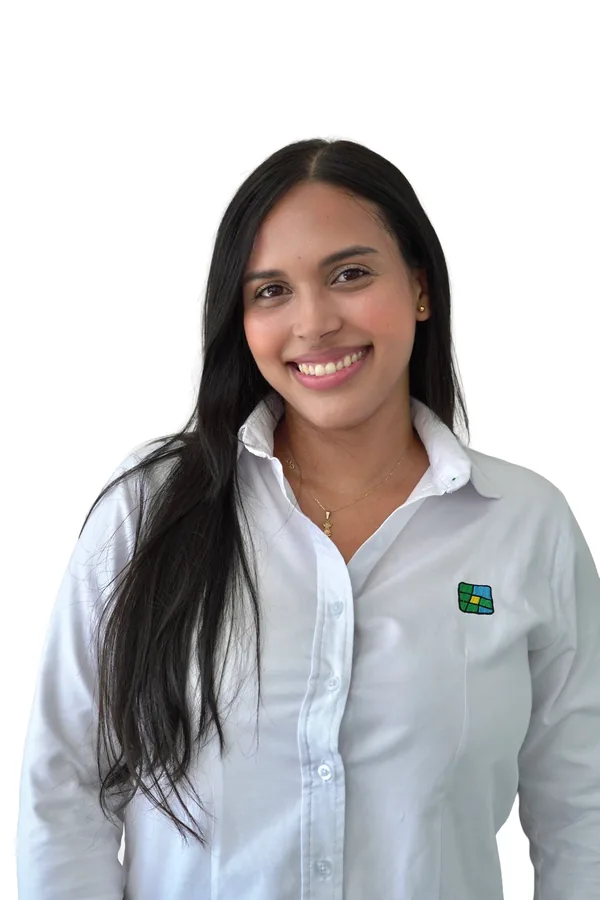
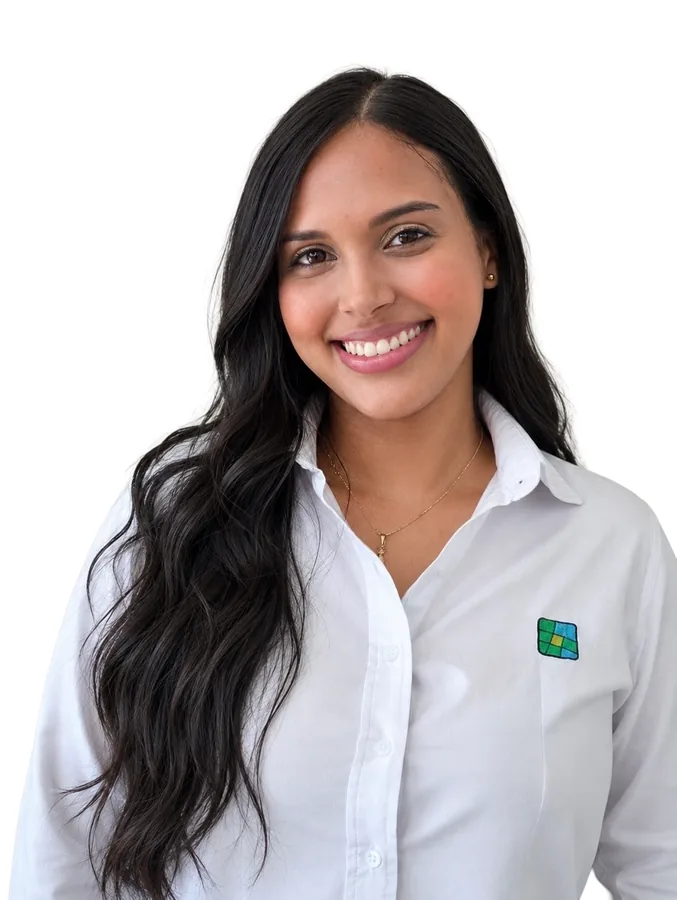
preview: agrega 10 integrantes faltantes + fotos nuevas de Wendy y Katherin (33 total)
Solo falta Gisella (sin foto sin fondo). Rama de vista previa; no fusionar.

diff --git a/lib/content.ts b/lib/content.ts
@@ -166,8 +166,8 @@ export const TEAM_AREAS = [
 ];
 
 /* VISTA PREVIA (rama equipo-fotos-preview): fotos sin fondo del personal, con el
- * diseño de 4 grupos. Solo incluye a las personas con foto disponible (22).
- * No fusionar a producción hasta aprobar. */
+ * diseño de 4 grupos. Solo incluye a las personas con foto disponible (33;
+ * falta Gisella Esther Martínez, sin foto sin fondo). No fusionar hasta aprobar. */
 export const DEFAULT_EQUIPO: Member[] = [
   { id: "ff-23", name: "Lulia Cristina Maestre Arcia", role: "Gerente", area: "Dirección", photo: "/assets/equipo/personas-preview/ff-23.webp" },
   { id: "ff-01", name: "Jorge Hernán Salgado Miranda", role: "Jefe de la Oficina de Gestión Catastral", area: "Dirección", photo: "/assets/equipo/personas-preview/ff-01.webp" },
@@ -187,11 +187,21 @@ export const DEFAULT_EQUIPO: Member[] = [
   { id: "ff-17", name: "María Amparo Camargo Bautista", role: "Contratista", area: "Contratistas", photo: "/assets/equipo/personas-preview/ff-17.webp" },
   { id: "ff-21", name: "Wendy Patricia Amaya Alarza", role: "Contratista", area: "Contratistas", photo: "/assets/equipo/personas-preview/ff-21.webp" },
   { id: "ff-22", name: "Miguel Ángel Bolaño Acosta", role: "Contratista", area: "Contratistas", photo: "/assets/equipo/personas-preview/ff-22.webp" },
+  { id: "ff-26", name: "Enrique Jesús Fernández García", role: "Contratista", area: "Contratistas", photo: "/assets/equipo/personas-preview/ff-26.webp" },
+  { id: "ff-27", name: "Gina Paola García Pinto", role: "Contratista", area: "Contratistas", photo: "/assets/equipo/personas-preview/ff-27.webp" },
+  { id: "ff-29", name: "Luz Ángela Romero Zabaleta", role: "Contratista", area: "Contratistas", photo: "/assets/equipo/personas-preview/ff-29.webp" },
+  { id: "ff-30", name: "Arnaldo Mauricio Núñez Ceballo", role: "Contratista", area: "Contratistas", photo: "/assets/equipo/personas-preview/ff-30.webp" },
+  { id: "ff-31", name: "Jesús Alberto Vallenilla Castilla", role: "Contratista", area: "Contratistas", photo: "/assets/equipo/personas-preview/ff-31.webp" },
+  { id: "ff-33", name: "Wilmer Ortiz Cañate", role: "Contratista", area: "Contratistas", photo: "/assets/equipo/personas-preview/ff-33.webp" },
   { id: "ff-02", name: "Gladys Mercedes Rosado Díaz", role: "Profesional Universitario", area: "Alcaldía", photo: "/assets/equipo/personas-preview/ff-02.webp" },
   { id: "ff-10", name: "Margaret Liliana Muñoz Quintero", role: "Contratista", area: "Alcaldía", photo: "/assets/equipo/personas-preview/ff-10.webp" },
   { id: "ff-15", name: "Iranys Beatriz Ortiz Villalba", role: "Contratista", area: "Alcaldía", photo: "/assets/equipo/personas-preview/ff-15.webp" },
   { id: "ff-18", name: "Valeria Vergara Araujo", role: "Contratista", area: "Alcaldía", photo: "/assets/equipo/personas-preview/ff-18.webp" },
   { id: "ff-20", name: "Margarita Rosa Silva Rojas", role: "Técnico Administrativo", area: "Alcaldía", photo: "/assets/equipo/personas-preview/ff-20.webp" },
+  { id: "ff-24", name: "Armando Fontalvo Gamarra", role: "Profesional Universitario", area: "Alcaldía", photo: "/assets/equipo/personas-preview/ff-24.webp" },
+  { id: "ff-25", name: "Carlos Alberto Noguera Meza", role: "Profesional Universitario", area: "Alcaldía", photo: "/assets/equipo/personas-preview/ff-25.webp" },
+  { id: "ff-28", name: "Luis Eduardo Manjarres Ospino", role: "Contratista", area: "Alcaldía", photo: "/assets/equipo/personas-preview/ff-28.webp" },
+  { id: "ff-32", name: "Valentina Amaya Henriquez", role: "Técnico Catastral", area: "Alcaldía", photo: "/assets/equipo/personas-preview/ff-32.webp" },
 ];
 
 /**
